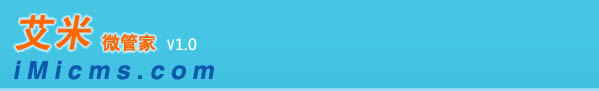
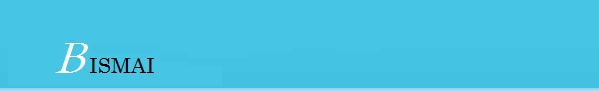
0608 21:00 office

Changed region(s): [[0.0, 0.1319, 0.3606, 0.8791]]

diff --git a/tpl/Static/huishuo.js b/tpl/Static/huishuo.js
@@ -1,30 +1,30 @@
 //Google Analytics
-  var _gaq = _gaq || [];
-  var pluginUrl = '//www.google-analytics.com/plugins/ga/inpage_linkid.js';
-  _gaq.push(['_require', 'inpage_linkid', pluginUrl]);
-  _gaq.push(['_setAccount', 'UA-42967187-1']);
-  _gaq.push(['_addOrganic', 'baidu', 'word']);  
-  _gaq.push(['_addOrganic', 'baidu', 'wd']);
-  _gaq.push(['_addOrganic', '360', 'word']);    
-  _gaq.push(['_addOrganic', 'soso', 'w']);  
-  _gaq.push(['_addOrganic', 'sogou', 'query']);  
-  _gaq.push(['_trackPageview']);
-
-  (function() {
-    var ga = document.createElement('script'); ga.type = 'text/javascript'; ga.async = true;
-    ga.src = ('https:' == document.location.protocol ? 'https://ssl' : 'http://www') + '.google-analytics.com/ga.js';
-    var s = document.getElementsByTagName('script')[0]; s.parentNode.insertBefore(ga, s);
-  })();
+//  var _gaq = _gaq || [];
+//  var pluginUrl = '//www.google-analytics.com/plugins/ga/inpage_linkid.js';
+//  _gaq.push(['_require', 'inpage_linkid', pluginUrl]);
+//  _gaq.push(['_setAccount', 'UA-42967187-1']);
+//  _gaq.push(['_addOrganic', 'baidu', 'word']);  
+//  _gaq.push(['_addOrganic', 'baidu', 'wd']);
+//  _gaq.push(['_addOrganic', '360', 'word']);    
+//  _gaq.push(['_addOrganic', 'soso', 'w']);  
+//  _gaq.push(['_addOrganic', 'sogou', 'query']);  
+//  _gaq.push(['_trackPageview']);
+//
+//  (function() {
+//    var ga = document.createElement('script'); ga.type = 'text/javascript'; ga.async = true;
+//    ga.src = ('https:' == document.location.protocol ? 'https://ssl' : 'http://www') + '.google-analytics.com/ga.js';
+//    var s = document.getElementsByTagName('script')[0]; s.parentNode.insertBefore(ga, s);
+//  })();
 //Universal Analytics
-  (function(i,s,o,g,r,a,m){i['GoogleAnalyticsObject']=r;i[r]=i[r]||function(){
-  (i[r].q=i[r].q||[]).push(arguments)},i[r].l=1*new Date();a=s.createElement(o),
-  m=s.getElementsByTagName(o)[0];a.async=1;a.src=g;m.parentNode.insertBefore(a,m)
-  })(window,document,'script','//www.google-analytics.com/analytics.js','ga');
-
-  ga('create', 'UA-42918205-1', 'iMicms.com');
-  ga('send', 'pageview');
+//  (function(i,s,o,g,r,a,m){i['GoogleAnalyticsObject']=r;i[r]=i[r]||function(){
+//  (i[r].q=i[r].q||[]).push(arguments)},i[r].l=1*new Date();a=s.createElement(o),
+//  m=s.getElementsByTagName(o)[0];a.async=1;a.src=g;m.parentNode.insertBefore(a,m)
+//  })(window,document,'script','//www.google-analytics.com/analytics.js','ga');
+//
+//  ga('create', 'UA-42918205-1', 'iMicms.com');
+//  ga('send', 'pageview');
 //Baidu Analytics
-var _bdhmProtocol = (("https:" == document.location.protocol) ? " https://" : " http://");
-document.write(unescape("%3Cscript src='" + _bdhmProtocol + "hm.baidu.com/h.js%3F080808dd59de91e1846b2add2c010101' type='text/javascript'%3E%3C/script%3E"));
+//var _bdhmProtocol = (("https:" == document.location.protocol) ? " https://" : " http://");
+//document.write(unescape("%3Cscript src='" + _bdhmProtocol + "hm.baidu.com/h.js%3F080808dd59de91e1846b2add2c010101' type='text/javascript'%3E%3C/script%3E"));
 //cnzz Analytics
-document.writeln("<div style=\"visibility:hidden; display:none;text-indent:-9999px; overflow:hidden; height:0px; width:0;\"><script src=\"http://s23.cnzz.com/stat.php?id=5821504&web_id=5821504\" language=\"JavaScript\"></script></div>");
+//document.writeln("<div style=\"visibility:hidden; display:none;text-indent:-9999px; overflow:hidden; height:0px; width:0;\"><script src=\"http://s23.cnzz.com/stat.php?id=5821504&web_id=5821504\" language=\"JavaScript\"></script></div>");

diff --git a/tpl/Admin/System/main.html b/tpl/Admin/System/main.html
@@ -9,41 +9,14 @@
 <body style="background:none">
 <div class="content">
 <div class="box">
-	<h3>iMicms更新消息</h3>
-    <div class="con dcon">
-    <div class="update">
-    <p>服务器系统：[<php>echo PHP_OS;</php>]<?php echo $_SERVER[SERVER_SOFTWARE];?> </p>
-	<p>服务器组件：<span class="red">MySql:</span> <php>echo mysql_get_server_info();</php>&nbsp;&nbsp;<span class="red">php: <php>echo PHP_VERSION;</php></span></p>
-    <p>登陆IP：<php>echo $_SERVER['REMOTE_ADDR'];</php></p>
-    <p>被屏蔽的函数：<php> echo get_cfg_var("disable_functions")?get_cfg_var("disable_functions"):"无" ; </php></p>
-    <p>官方网站：<a href="http://bbs.iMicms.com" class="blue">艾米官网</a></p>
-    <p>系统版本：iMicms V1.0_{imicms:$ver} <a href="./index.php?g=Admin&m=Update&a=index" class="isub">检查更新</a></p>
+
     </div>
     <ul class="myinfo">
-   <li><p class="red">程序版本：艾米微管家多用户微信营销系统v1.0</p><span>&nbsp;&nbsp; [ 授权版本：商业版 (终身使用权) ]</span></li>
    <li><p>{imicms:$domain_time}</p></li>
 	</ul>
     </div>
 </div>
-<!--/box-->
-<div class="box">
-	<h3>iMicms官方动态</h3>
-    <div class="con dcon">
-    <div class="kjnav">
-    <a href="http://bbs.iMicms.com">使用帮助</a><a href="http://bbs.iMicms.com">技术售后</a><a href="http://bbs.iMicms.com">安装指导</a><a href="http://bbs.iMicms.com">联系我们</a><a href="http://bbs.iMicms.com">升级咨询</a>
-    </div>
-    <ul class="myinfo kjinfo">
-   <li class="title">售后服务范围</li>
-<li>程序第一次安装指导,或第一次协助安装</li>
-<li>服务时间：早9:00 晚10:00 如有疑问请在这个时间段联系我们，周未双休</li>
-<li>授权版,请勿修改程序,您的擅自修改出现的任何问题,将不在服务内('可指导')</li>
-<li>如果有BUG,请到论坛提交,我们会尽快发布修复补丁</li>
-<li>如果您购买的是授权版,iMicms开发出新的模块功能,您会在第一时间得到升级包</li>
-	</ul>
-    </div>
-</div>
 
-<!--/box-->
 </div>
 </body>
 </html>

diff --git a/tpl/Home/weixin/Public_footer.html b/tpl/Home/weixin/Public_footer.html
@@ -1,10 +1,6 @@
-<div id="footer">
-	<div class="links pt20 pb10"><a href="http://qiao.baidu.com/v3/?module=default&controller=webim&action=index&siteid=3006028">申请入驻</a>&nbsp;&nbsp;|&nbsp;&nbsp;<a href="http://qiao.baidu.com/v3/?module=default&controller=webim&action=index&siteid=3006028">渠道代理</a>&nbsp;&nbsp;|&nbsp;&nbsp;<a href="#">接口定制</a>&nbsp;&nbsp;|&nbsp;&nbsp;<a href="http://qiao.baidu.com/v3/?module=default&controller=webim&action=index&siteid=3006028">微信托管</a></div>
-	<div>联系电话：<strong>{iMicms::C('telephone')}</strong> QQ:<a href="http://wpa.qq.com/msgrd?v=3&amp;uin=2693541829&amp;site=qq&amp;menu=yes" title="销售代表" target="_blank">销售代表</a>&nbsp;|&nbsp;<a href="http://wpa.qq.com/msgrd?v=3&amp;uin=1340684559&amp;site=qq&amp;menu=yes" title="销售代表" target="_blank">销售代表</a> 邮箱：service@hywlseo.com <br />
-		地址：黑龙江省哈尔滨市道里区新阳路504号欧洲新城香榭丽舍B座2单元302</div>
-	<div>版权所有 © 2013 哈尔滨红鹰网络科技有限公司 - {iMicms::C('site_name')}&nbsp;<a href="http://www.miitbeian.gov.cn/" target="_blank">{iMicms::C('ipc')}</a>号</div>
+<div id="footer">
+	<div class="links pt20 pb10"><a href="">申请入驻</a></div>
 </div>
-
-<div style="display:none">{iMicms::C('counts')}</div>
-</body>
-</html>
+<div style="display:none">{iMicms::C('counts')}</div>
+</body>
+</html>

diff --git a/tpl/Home/weixin/index.html b/tpl/Home/weixin/index.html
@@ -22,8 +22,8 @@
 <body>
 <!-- <div class="load" id="load">
 	<div id="loadInside" style="display:none;">
-		<p><img src="" data-src="img/load_2.png" alt="艾米" /></p>
-		<p id="loadImg" style="width: 0;"><img src="" data-src="img/load.png" alt="艾米" /></p>
+		<p><img src="" data-src="img/load_2.png" alt="比斯迈" /></p>
+		<p id="loadImg" style="width: 0;"><img src="" data-src="img/load.png" alt="比斯迈" /></p>
 		<p class="loadTxt"><span id="loadTxt">0</span>%</p>
 	</div>
 	<p><img src="img/loading.gif" alt=""></p>
@@ -31,7 +31,7 @@
 </div> -->
 <div class="wrapHeader">
 	<div class="header">
-		<h1 class="logo"><a href="index.php"><img src="img/logo.png" alt="艾米" title="艾米" width="200" height="60" /></a></h1>
+		<h1 class="logo"><a href="index.php"><img src="img/logo.png" alt="比斯迈" title="比斯迈" width="200" height="60" /></a></h1>
 		<ul class="nav">
 			<li><a href="javascript:void(0)" class="cur">首页</a></li>
 			<li><a href="javascript:void(0)">平台介绍</a></li>
@@ -180,7 +180,7 @@
 			</div>
 			<div class="b4_01">
 				<img src="" data-src="img/b4_01.png" alt="" />
-				<p class="tl">艾米网站</p>
+				<p class="tl">比斯迈网站</p>
 			</div>
 			<div class="b4_02">
 				<img src="" data-src="img/b4_02.png" alt="" />

diff --git a/tpl/Admin/System/index.html b/tpl/Admin/System/index.html
@@ -18,9 +18,8 @@
     	<a href="/" class="logo" title="首页">首页</a>
 		 <div class="login">
 			<li>您好：<b>{iMicms:$Think.session.username}</b> ，欢迎使用{iMicms::C('site_name')}！</li>	
-			<li><a href="{iMicms::C('site_url')}" target="_blank"> 访问首页</a></li>
-			<li><a href="{iMicms::U('User/Index/index')}" target="_blank">用户中心</a></li>
-			<li><a href="http://bbs.iMicms.com">官方论坛</a></li>
+			<li><a href="{iMicms::C('site_url')}" target="_blank"> 访问首页</a></li>			<li><a href="{iMicms::U('User/Index/index')}" target="_blank">用户中心</a></li>
+			
 			<li><a href="{iMicms::U('Admin/logout')}">[退出]</a></li>
 		</div>
 
@@ -35,12 +34,11 @@
 			</volist>
         </ul>
     </div>
-	<div id="tongji" style="border:1px solid #C0C0C0;display:none"><script src="http://s23.cnzz.com/stat.php?id=5821504&web_id=5821504" language="JavaScript"></script></div>
+	
 
 <div class="topnav">
     	<p><a href="javascript:void(0)" id="togglemenu">隐藏菜单</a></div>
         <div class="fr">
-        	<a href="http://bbs.iMicms.com">官方论坛</a>
         	<a href="http://bbs.iMicms.com">在线帮助</a>
         </div>
     </div>

diff --git a/tpl/User/default/Index_index.html b/tpl/User/default/Index_index.html
@@ -64,8 +64,7 @@
                     <span class="caret"></span>
                 </a>
                     <ul class="dropdown-menu">
-
-                        <li><a href="http://wpa.qq.com/msgrd?v=3&uin={iMicms::C('site_qq')}&site=qq&menu=yes" target="_blank">在线客服</a></li>
+                       
                         <li><a href="/index.php?g=User&m=Index&a=userguide">使用指南</a></li>
                         <li><a href="/index.php?g=User&m=Index&a=about">关于我们</a></li>
                         <li><a href="/index.php?g=User&m=Index&a=help">常见问题</a></li>

diff --git a/tpl/User/default/Index_acount.html b/tpl/User/default/Index_acount.html
@@ -121,19 +121,5 @@
             </div>
         </div>
     </div>
-
-<div class="hide" id="tisp">
-        <p>尊敬的用户：</p>
-    <pre>  您现在使用的是艾米微管家多用户微信营销系统 V1.0</pre>
-    <pre>  请拒绝支付淘宝卖家的软件费用，本站地址 bbs.iMicms.com </pre>
-    <p class="text-right">艾米微管家团队 2014.5.12</p> </div>
-
-    <script>
-    $(function(){
-        if ($("#tisp")) {
-             var $tisp=$("#tisp");
-             G.ui.tips.up($tisp.html())
-         }
-    });
-    </script></body>
+</body>
 </html>

diff --git a/tpl/Home/weixin/Index_getpass.html b/tpl/Home/weixin/Index_getpass.html
@@ -41,8 +41,6 @@
         </div>
 
         <div class="info">
-        <span><a href="/" target="_blank" title="首页" hidefocus="true" onfocus="this.blur();">艾米微管家首页</a></span>
-        <span class="split">|</span>
         <span><a href="/index.php?m=Index&a=login" class="registerNew" title="登录" hidefocus="true" onfocus="this.blur();">登录</a></span>
     </div>
     <div style="clear:both;"></div>

diff --git a/tpl/Home/weixin/common/reg/style.css b/tpl/Home/weixin/common/reg/style.css
@@ -100,7 +100,7 @@ a:hover {
 
 body {
 
-	background: url(../img/quc_index_bg.jpg) no-repeat 50% 0
+	background: url(../img/background.jpg) no-repeat 50% 0
 
 }
 
@@ -276,7 +276,7 @@ body {
 
 #hd .logo {
 
-	background: url(../img/logo.png) no-repeat;
+	background: url(../img/logo.png) no-repeat ;
 
 	float: left;
 

diff --git a/Data/conf/info.php b/Data/conf/info.php
@@ -7,10 +7,10 @@ return array (
   'ischeckuser' => '1',
   'user_first_grade' => '4',
   'user_first_grade_time' => '30',
-  'ipc' => '京IPC备140225588号',
-  'telephone' => '010-12345678',
-  'site_qq' => '8441010',
-  'site_qq1' => '48855431',
+  'ipc' => '粤IPC备1403815号',
+  'telephone' => '1111111',
+  'site_qq' => '1111111',
+  'site_qq1' => '11111111',
   'site_email' => '8441010@qq.com',
   'baidu_map_api' => '827cb057f915c64da0b23a3bed5afe84',
   'site_lxdz' => '北京市海淀区中关村大厦',

diff --git a/Data/conf/db.php b/Data/conf/db.php
@@ -2,10 +2,10 @@
 return array (
   'DB_TYPE' => 'mysql',
   'DB_HOST' => 'localhost',
-  'DB_PORT' => '3306',
+  'DB_PORT' => '2019',
   'DB_NAME' => 'wgc',
   'DB_USER' => 'root',
-  'DB_PWD' => 'Empire@qq',
+  'DB_PWD' => '',
   'DB_PREFIX' => 'wgc_',
 );
 ?>
